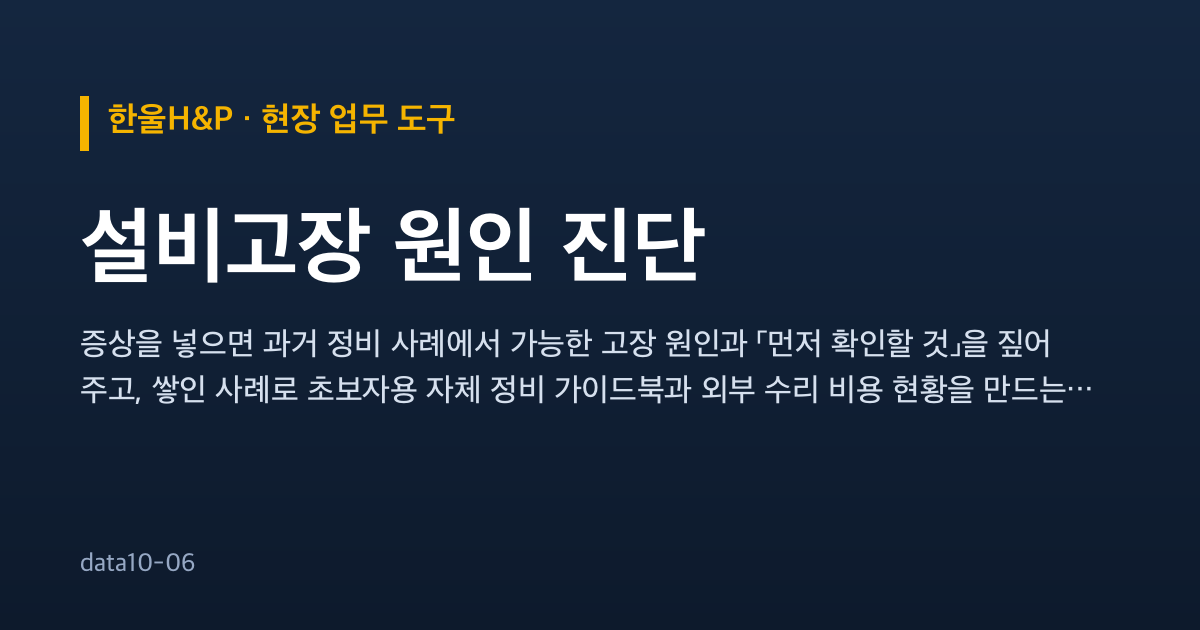
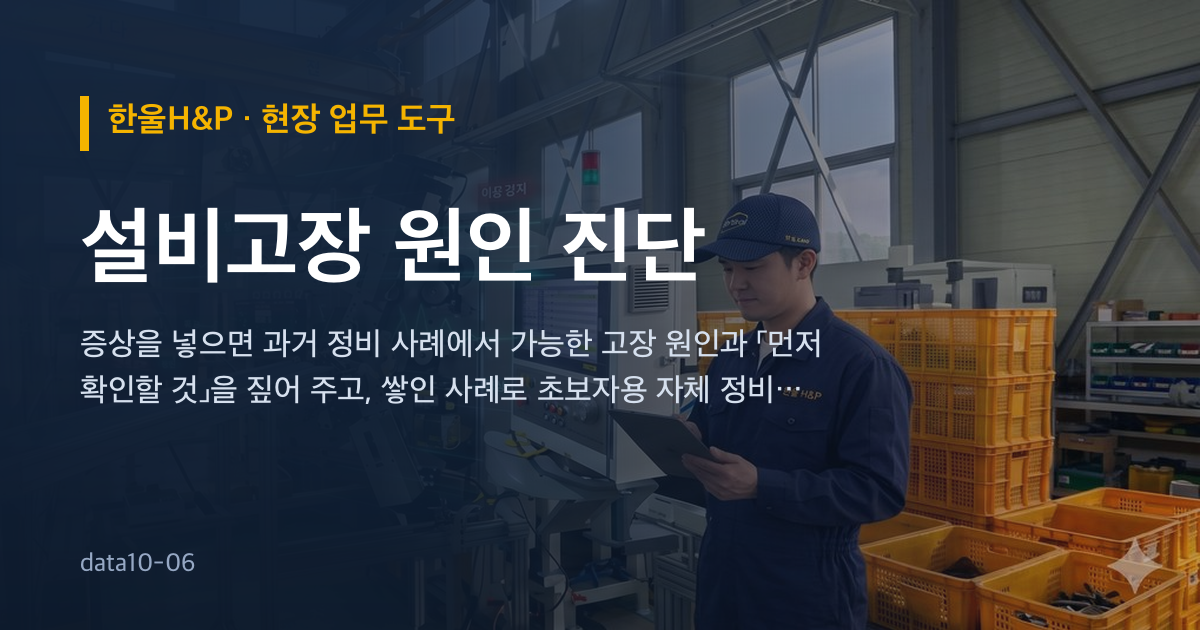
개발 자료 전체 공개 — 개발일지 · 기획서 원문 · 시험 · SQL · 스크립트 · README (수강생 내려받기용)

diff --git a/index.html b/index.html
@@ -12,9 +12,16 @@
   <meta property="og:description" content="증상을 넣으면 과거 정비 사례에서 가능한 고장 원인과 「먼저 확인할 것」을 짚어 주고, 쌓인 사례로 초보자용 자체 정비 가이드북과 외부 수리 비용 현황을 만드는 도구입니다.">
   <meta property="og:url" content="https://data10-06.jobability.co.kr/">
   <meta property="og:image" content="https://data10-06.jobability.co.kr/og-image.png">
+  <meta property="og:image:secure_url" content="https://data10-06.jobability.co.kr/og-image.png">
+  <meta property="og:image:type" content="image/png">
   <meta property="og:image:width" content="1200">
   <meta property="og:image:height" content="630">
+  <meta property="og:image:alt" content="한울H&amp;P · 설비고장 원인 진단">
+  <meta property="og:locale" content="ko_KR">
   <meta name="twitter:card" content="summary_large_image">
+  <meta name="twitter:title" content="한울H&amp;P · 설비고장 원인 진단">
+  <meta name="twitter:description" content="증상을 넣으면 과거 정비 사례에서 가능한 고장 원인과 「먼저 확인할 것」을 짚어 주고, 쌓인 사례로 초보자용 자체 정비 가이드북과 외부 수리 비용 현황을 만드는 도구입니다.">
+  <meta name="twitter:image" content="https://data10-06.jobability.co.kr/og-image.png">
   <link rel="icon" href="favicon.svg" type="image/svg+xml">
   <!-- /seo-kit -->
   <meta name="description" content="증상을 넣으면 과거 정비 사례에서 가능한 고장 원인과 먼저 확인할 것을 짚어 주고, 정비 사례로 초보자용 자체 정비 가이드북과 외부 수리 비용 현황을 만드는 브라우저 도구">
@@ -30,11 +37,11 @@
        탭 전환·포커스로는 옮기지 않는다(입력 유실). ETag 는 Cloudflare 가 지워서 쓸 수 없다. 원본: dreamit-1000/scripts/fresh-guard/guard.html
        file:// 로 열면 아무것도 하지 않는다 — file 주소는 fetch 를 못 해 콘솔 오류만 남기 때문(2026-10-27, data10-07 과 같게). -->
   <script>(function(){try{var L=location,P='_fg',h=window.history,q=L.search;if(L.protocol==='file:')return;if(/[?&]_fg=/.test(q)&&h&&h.replaceState){q=q.replace(/([?&])_fg=[^&]*&?/,'$1').replace(/[?&]$/,'');h.replaceState(h.state,'',L.pathname+q+L.hash);}var d=Date.parse(document.lastModified),u=L.pathname+L.search,k='__fresh_guard',t=0;if(!d||!window.fetch||!window.sessionStorage)return;var g=function(s,v){return s+(s.indexOf('?')<0?'?':'&')+P+'='+v;};var c=function(){var n=Date.now();if(n-t<15000)return;t=n;fetch(g(u,n),{method:'HEAD',cache:'no-store'}).then(function(r){var lm=r.headers.get('last-modified'),f=lm&&Date.parse(lm);if(!f||f<=d+1000)return;if(sessionStorage.getItem(k)===lm)return;sessionStorage.setItem(k,lm);L.replace(g(L.pathname+L.search,f)+L.hash);})['catch'](function(){});};c();var p=h&&h.pushState;if(p)h.pushState=function(){var x=p.apply(this,arguments);c();return x;};addEventListener('hashchange',c);addEventListener('popstate',c);}catch(e){}})();</script>
-  <link rel="stylesheet" href="css/style.css?v=2026-11-11.7">
+  <link rel="stylesheet" href="css/style.css?v=2026-11-11.8">
   <!-- auth-kit: 로그인 전에는 도구 화면을 감춘다(js/auth.js 가 판정 뒤 푼다) -->
   <script>document.documentElement.classList.add('auth-lock')</script>
-  <link rel="stylesheet" href="css/auth.css?v=2026-11-11.7">
-  <link rel="stylesheet" href="css/board.css?v=2026-11-11.7">
+  <link rel="stylesheet" href="css/auth.css?v=2026-11-11.8">
+  <link rel="stylesheet" href="css/board.css?v=2026-11-11.8">
   <!-- /auth-kit -->
 </head>
 <body>
@@ -89,22 +96,22 @@
   <div id="toast" class="toast" role="status" aria-live="polite" hidden></div>
 
   <!-- 로컬 파일(file://)로 열어도 돌도록 module 이 아닌 일반 스크립트로 불러옵니다 -->
-  <script src="vendor/xlsx.full.min.js?v=2026-11-11.7"></script>
-  <script src="js/xlsx-images.js?v=2026-11-11.7"></script>
-  <script src="js/logic.js?v=2026-11-11.7"></script>
-  <script src="js/fieldform.js?v=2026-11-11.7"></script>
-  <script src="js/sample-data.js?v=2026-11-11.7"></script>
-  <script src="js/store.js?v=2026-11-11.7"></script>
-  <script src="js/photos.js?v=2026-11-11.7"></script>
-  <script src="js/charts.js?v=2026-11-11.7"></script>
-  <script src="js/ai-endpoint.js?v=2026-11-11.7"></script>
-  <script src="js/ai-panel.js?v=2026-11-11.7"></script>
-  <script src="js/app.js?v=2026-11-11.7"></script>
+  <script src="vendor/xlsx.full.min.js?v=2026-11-11.8"></script>
+  <script src="js/xlsx-images.js?v=2026-11-11.8"></script>
+  <script src="js/logic.js?v=2026-11-11.8"></script>
+  <script src="js/fieldform.js?v=2026-11-11.8"></script>
+  <script src="js/sample-data.js?v=2026-11-11.8"></script>
+  <script src="js/store.js?v=2026-11-11.8"></script>
+  <script src="js/photos.js?v=2026-11-11.8"></script>
+  <script src="js/charts.js?v=2026-11-11.8"></script>
+  <script src="js/ai-endpoint.js?v=2026-11-11.8"></script>
+  <script src="js/ai-panel.js?v=2026-11-11.8"></script>
+  <script src="js/app.js?v=2026-11-11.8"></script>
   <!-- auth-kit: 로그인 · 사용 신청 · 승인(정본 data10-00/kit/auth) -->
-  <script src="vendor/supabase.js?v=2026-11-11.7"></script>
-  <script src="js/auth-config.js?v=2026-11-11.7"></script>
-  <script src="js/board.js?v=2026-11-11.7"></script>
-  <script src="js/auth.js?v=2026-11-11.7"></script>
+  <script src="vendor/supabase.js?v=2026-11-11.8"></script>
+  <script src="js/auth-config.js?v=2026-11-11.8"></script>
+  <script src="js/board.js?v=2026-11-11.8"></script>
+  <script src="js/auth.js?v=2026-11-11.8"></script>
   <!-- /auth-kit -->
 </body>
 </html>

diff --git a/js/app.js b/js/app.js
@@ -6,7 +6,7 @@
   var FF = window.FixFieldForm, L = window.FixLogic, S = window.FixStore, P = window.FixPhotos, C = window.FixCharts, AIP = window.AIPanel, SMP = window.FixSample, XI = window.FixXlsxImages;
   /* 판 맞추기 — 브라우저가 옛 logic.js 와 새 app.js 를 섞어 쓰면(Pages 캐시) 버튼과 결과가 어긋날 수 있어, 섞였으면 계산하지 않고 새로고침을 안내합니다.
      판은 scripts/bump-version.mjs 로 index.html(?v=) · logic.js 와 함께 올립니다. */
-  var APP_VERSION = '2026-11-11.7';
+  var APP_VERSION = '2026-11-11.8';
   if (!L || L.VERSION !== APP_VERSION) {
     var m0 = document.getElementById('main') || document.body;
     m0.innerHTML = '<section class="card" id="versionMismatch"><h1>새 판이 나왔습니다 — 새로고침(Ctrl+F5)해 주세요</h1><p class="alert warn">이 브라우저가 옛 파일과 새 파일을 섞어 불러왔습니다(js/logic.js ' +

diff --git a/js/auth.js b/js/auth.js
@@ -233,6 +233,12 @@
       box.classList.toggle('hp-sl-light', !!(sl[i] && sl[i].tone === 'light'));   // 밝은 사진이면 글자를 어둡게
     }
     go(0);
+    // slides[].anim(움직이는 그림 gif) — 먼저 가벼운 사진을 보이고, 화면이 뜬 뒤 받아서 바꿔 끼운다(데이터 절약 · 모션 최소화면 건너뜀)
+    var conn = navigator.connection || {};
+    if (!reduce && !conn.saveData) sl.forEach(function (x, k) {
+      if (!x.anim || !track.children[k]) return;
+      setTimeout(function () { var im = new Image(); im.onload = function () { if (document.body.contains(track)) track.children[k].style.backgroundImage = 'url("' + absUrl(x.anim) + '")'; }; im.src = absUrl(x.anim); }, 1500);
+    });
     box.querySelectorAll('[data-sl]').forEach(function (b) {
       b.onclick = function () {
         var v = b.getAttribute('data-sl');

diff --git a/js/logic.js b/js/logic.js
@@ -13,7 +13,7 @@
   'use strict';
   /* 판(版) — index.html 의 ?v= · app.js 의 APP_VERSION 과 같아야 합니다(scripts/bump-version.mjs 로 함께 올림).
      브라우저가 옛 logic.js 와 새 app.js 를 섞어 쓰면 app.js 가 이 값을 보고 계산을 멈춥니다. */
-  var VERSION = '2026-11-11.7';
+  var VERSION = '2026-11-11.8';
 
   var SCHEMA_VERSION = 1;
   var REPAIR = ['외부', '자체'];

diff --git a/docs/평가보고서/data10-06_평가보고서_2026-11-11.md b/docs/평가보고서/data10-06_평가보고서_2026-11-11.md
@@ -2,7 +2,7 @@
 
 - 과제: 설비고장 원인 진단
 - 요청자: 유상진
-- 점검일: 2026-11-11 (라이브 점검 판 2026-11-11.6, 이 보고서와 함께 올리는 판 2026-11-11.7)
+- 점검일: 2026-11-11 (라이브 점검 판 2026-11-11.6, 이 보고서와 함께 올리는 판 2026-11-11.8)
 - 사이트: https://data10-06.jobability.co.kr/
 - 리포지토리: https://github.com/jungaistar/data10-06
 
@@ -34,7 +34,7 @@
 | 첫 화면 구성 | 충족 | 모양 사진 슬라이드 1장 · 기능 6 · 사용 순서 6 · 실제 화면 있음 |
 | 회사 로고(그림) | 충족 | 머리글 로고 그림 |
 | 기획서 페이지 · 실제 화면 그림 | 충족 | plan.html 200 · screen.png 200 |
-| 공유 미리보기 메타 · 아이콘 | 조치함 | 점검 때 og 메타 · 아이콘이 없어 판 2026-11-11.7 에서 넣음 |
+| 공유 미리보기 메타 · 아이콘 | 조치함 | 점검 때 og 메타 · 아이콘이 없어 넣음 — og:title · description · url · image(1200×630, 첫 화면 사진 바탕) · canonical |
 
 ## 3. 기능과 시험
 
@@ -64,7 +64,7 @@
 | Supabase 설정 파일 | 충족 | auth.sql · board.sql · site.sql · verify.sql |
 | Supabase 연결 안내 | 충족 | supabase/README.md (11단계 · 기대하는 값 · 자주 나는 문제) |
 | 내 깃허브로 옮기기 안내 | 충족 | docs/내_깃허브로_옮기기.md |
-| 기획서(워드) · 개발일지 · 변경 이력 | 충족 | 변경 이력 10건 · 커밋 19개 |
+| 기획서(워드) · 개발일지 · 변경 이력 | 충족 | 변경 이력 11건 · 커밋 20개 |
 | 공개 리포지토리(ZIP 내려받기) | 충족 | github.com/jungaistar/data10-06 |
 | 게시판 · 새 글 알림 · 첫 화면 고르기 | 충족 | 과정용 프로젝트에 SQL 적용 완료(표 · 정책 수 확인) |
 
@@ -75,13 +75,14 @@
 | 항목 | 결과 | 근거 |
 |---|---|---|
 | 내 깃허브에 배포 | 충족 | https://yoosangjin1221.github.io/hanwool/ |
-| 최신 판으로 배포 | 미충족 | 배포된 판 2026-11-11.5 (최종 2026-11-11.7) |
+| 최신 판으로 배포 | 미충족 | 배포된 판 2026-11-11.5 (최종 2026-11-11.8) |
 | 게시판 포함 판 | 충족 | 게시판 파일 있음 |
 | 내 Supabase 로 연결 | 미충족 | 아직 과정용 프로젝트 주소 그대로 |
 | 비밀 키 노출 없음 | 충족 | 설정 파일에 service_role · secret 키 없음 |
 
 ## 6. 변경 이력
 
+- 2026-11-11 점검 · 평가보고서 (판 2026-11-11.7)
 - 2026-11-11 요청 반영 (판 2026-11-11.6)
 - 2026-11-11 슬라이드 사진 (판 2026-11-11.5)
 - 2026-11-11 첫 화면 모양 고르기 (판 2026-11-11.3)

diff --git a/CHANGELOG.md b/CHANGELOG.md
@@ -2,6 +2,11 @@
 
 버전마다 기획서 워드 판을 `docs/기획서/` 에 남긴다(옛 판을 지우지 않는다).
 
+## 2026-11-11 최종 (판 2026-11-11.8)
+
+- 공유 미리보기 그림(og-image.png)을 첫 화면 사진 바탕으로, og · twitter 메타 보강
+- 평가보고서 갱신 `docs/평가보고서/`
+
 ## 2026-11-11 점검 · 평가보고서 (판 2026-11-11.7)
 
 - 16개 사이트 점검 결과와 평가보고서 `docs/평가보고서/`(md · docx)
